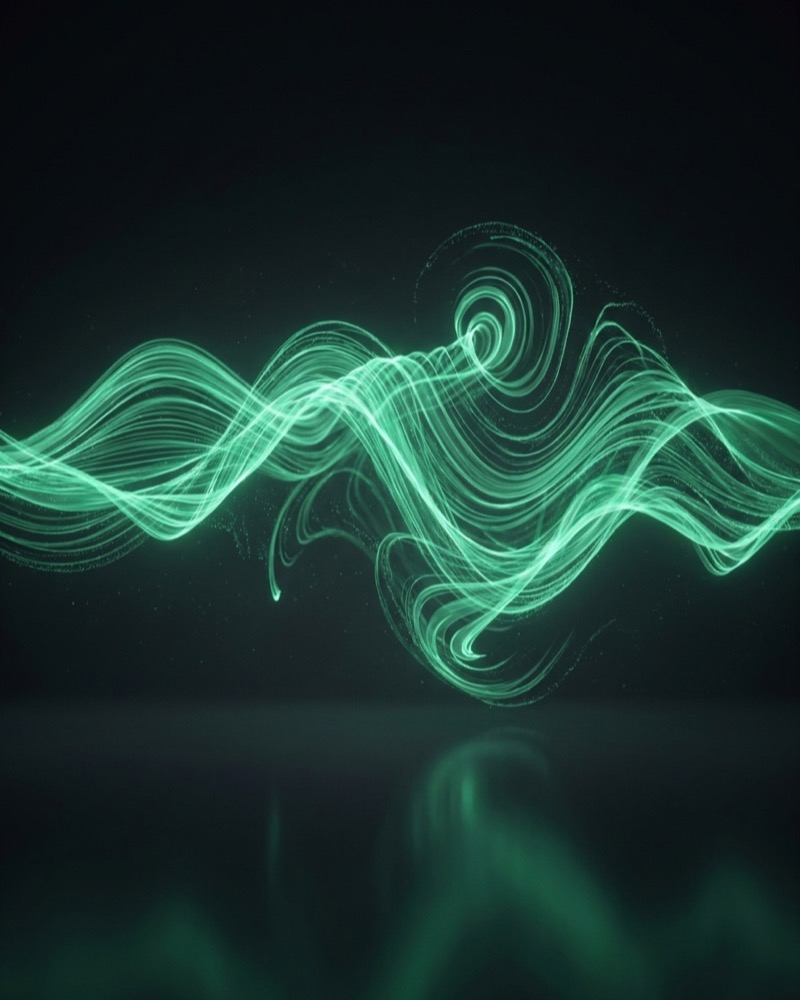
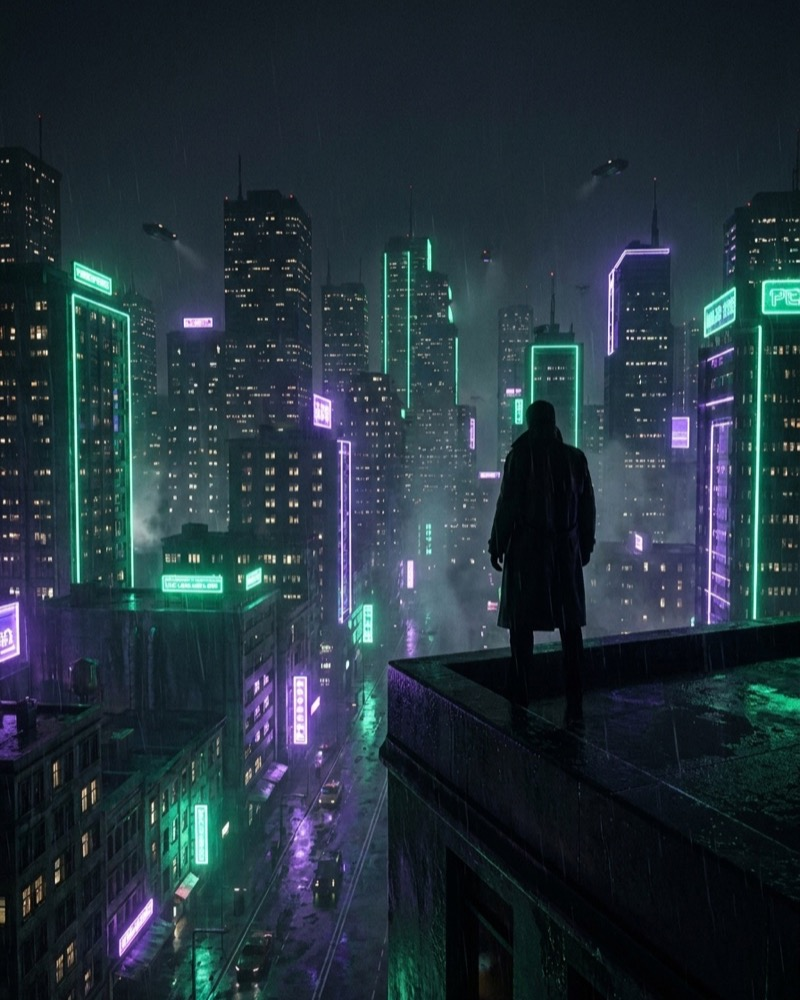
Work loops with real motion + crossfade looper; lead endpoint live
Regenerated all four project videos start-frame-only (identical start/end
frames made Kling emit frozen clips — verified by frame diffing): Nexus
Core spins on a 45° axis with sweeping light, Gridworks conveyors run,
Orbital rotates on a tilted axis with anticlockwise orbiting lights, and
Wavelane is replaced by Nightgrid — a lone figure over a living neon
metropolis. Seamlessness is now guaranteed by a crossfade looper (twin
stacked videos dissolving at the boundary) instead of trusting the model.

Intake now POSTs to the deployed Apps Script endpoint (sheet + email to
[email redacted]), verified end-to-end ({ok:true}). Cache v5.

diff --git a/js/main.js b/js/main.js
@@ -341,7 +341,7 @@
 
   /* Google Apps Script web-app URL (lead sheet + email notification).
      While empty, submissions fall back to composing a mailto. */
-  var INTAKE_ENDPOINT = '';
+  var INTAKE_ENDPOINT = 'https://script.google.com/macros/s/AKfycbwYakvOXoyUIMQAzjKqIYsrwguvBnIN407osOq5CoS3YV2R_b84QNYV_BEs_AdWuNoh/exec';
 
   function requiredMessage(field) {
     var name = (field.getAttribute('name') || field.id || '').toLowerCase();
@@ -893,18 +893,82 @@
     if (!videos.length || prefersReducedMotion()) return;
     if (!('IntersectionObserver' in window)) return;
 
+    /* Crossfade looper: each card runs two stacked copies of its clip.
+       As the front copy nears its end, the twin restarts from 0 and fades
+       in over ~0.65s — the loop point is dissolved away, so ANY footage
+       loops without a visible jump. */
+    var FADE_LEAD = 0.65;
+
+    body.classList.add('work-loops'); /* gates the opacity CSS */
+
+    videos.forEach(function (primary) {
+      var twin = primary.cloneNode(true);
+      twin.removeAttribute('poster');
+      twin.classList.add('work-media-twin');
+      primary.parentNode.insertBefore(twin, primary.nextSibling);
+
+      var state = {
+        active: primary,
+        standby: twin,
+        swapping: false,
+        visible: false
+      };
+      primary.__loop = state;
+      twin.__loop = state;
+
+      function beginCrossfade() {
+        if (state.swapping || !state.visible) return;
+        state.swapping = true;
+        var incoming = state.standby;
+        var outgoing = state.active;
+        incoming.muted = true;
+        incoming.currentTime = 0;
+        var played = incoming.play();
+        if (played && typeof played.catch === 'function') {
+          played.catch(function () {});
+        }
+        incoming.classList.add('is-front');
+        outgoing.classList.remove('is-front');
+        window.setTimeout(function () {
+          outgoing.pause();
+          state.active = incoming;
+          state.standby = outgoing;
+          state.swapping = false;
+        }, 720);
+      }
+
+      function onTime() {
+        if (state.swapping || !state.visible) return;
+        var v = state.active;
+        if (v.duration && v.duration - v.currentTime <= FADE_LEAD) {
+          beginCrossfade();
+        }
+      }
+
+      primary.addEventListener('timeupdate', onTime);
+      twin.addEventListener('timeupdate', onTime);
+      /* Safety net if timeupdate misses the fade window entirely */
+      primary.addEventListener('ended', beginCrossfade);
+      twin.addEventListener('ended', beginCrossfade);
+
+      primary.classList.add('is-front');
+    });
+
     var observer = new window.IntersectionObserver(
       function (entries) {
         entries.forEach(function (entry) {
-          var video = entry.target;
+          var state = entry.target.__loop;
+          if (!state) return;
+          state.visible = entry.isIntersecting;
           if (entry.isIntersecting) {
-            video.muted = true; /* belt & braces for autoplay policies */
-            var played = video.play();
+            state.active.muted = true;
+            var played = state.active.play();
             if (played && typeof played.catch === 'function') {
               played.catch(function () { /* poster stays — fine */ });
             }
-          } else if (!video.paused) {
-            video.pause();
+          } else {
+            if (!state.active.paused) state.active.pause();
+            if (!state.standby.paused) state.standby.pause();
           }
         });
       },

diff --git a/css/styles.css b/css/styles.css
@@ -1021,8 +1021,21 @@ body.js-enabled:not(.no-3d) .process-step {
   width: 100%;
   aspect-ratio: 4 / 5;
   object-fit: cover;
-  transition: transform 500ms ease;
+  transition: transform 500ms ease, opacity 650ms linear;
 }
+
+/* Crossfade looper (main.js adds body.work-loops + a stacked twin copy;
+   whichever copy holds .is-front is visible). Without JS the single video
+   stays fully visible. */
+.work-media-twin {
+  position: absolute;
+  top: 0;
+  left: 0;
+  width: 100%;
+  height: 100%;
+  aspect-ratio: auto;
+}
+body.work-loops .work-card .work-media:not(.is-front) { opacity: 0; }
 @media (hover: hover) and (pointer: fine) {
   .work-card:hover img,
   .work-card:hover .work-media { transform: scale(1.04); }

diff --git a/index.html b/index.html
@@ -19,7 +19,7 @@
   <link rel="preconnect" href="https://fonts.gstatic.com" crossorigin>
   <link rel="stylesheet" href="https://fonts.googleapis.com/css2?family=Inter:wght@400;500;600;700&family=Space+Grotesk:wght@500;600;700&display=swap">
 
-  <link rel="stylesheet" href="css/styles.css?v=4">
+  <link rel="stylesheet" href="css/styles.css?v=5">
 </head>
 <body>
 
@@ -219,9 +219,9 @@
                  poster="assets/images/work-2.jpg" width="800" height="1000" aria-hidden="true">
             <source src="assets/videos/work-2.mp4" type="video/mp4">
           </video>
-          <figcaption><span class="work-name">Wavelane</span> <span class="work-tag">Voice interface concept</span></figcaption>
+          <figcaption><span class="work-name">Nightgrid</span> <span class="work-tag">Immersive city concept</span></figcaption>
           <a class="work-view" href="#contact" data-intake-service="3D web experiences">
-            <span class="sr-only">View the Wavelane project — Wavelane — emerald audio waveform ribbons rippling across a dark scene. Answer a few quick questions to unlock it.</span>
+            <span class="sr-only">View the Nightgrid project — a lone figure overlooking a living neon metropolis at night. Answer a few quick questions to unlock it.</span>
             <span class="work-view-pill" aria-hidden="true">View project →</span>
           </a>
         </figure>
@@ -467,8 +467,8 @@
   <script src="https://cdnjs.cloudflare.com/ajax/libs/three.js/0.149.0/three.min.js"></script>
   <script src="https://cdn.jsdelivr.net/npm/gsap@3.12.5/dist/gsap.min.js"></script>
   <script src="https://cdn.jsdelivr.net/npm/gsap@3.12.5/dist/ScrollTrigger.min.js"></script>
-  <script src="js/scene.js?v=4"></script>
-  <script src="js/scroll.js?v=4"></script>
-  <script src="js/main.js?v=4"></script>
+  <script src="js/scene.js?v=5"></script>
+  <script src="js/scroll.js?v=5"></script>
+  <script src="js/main.js?v=5"></script>
 </body>
 </html>